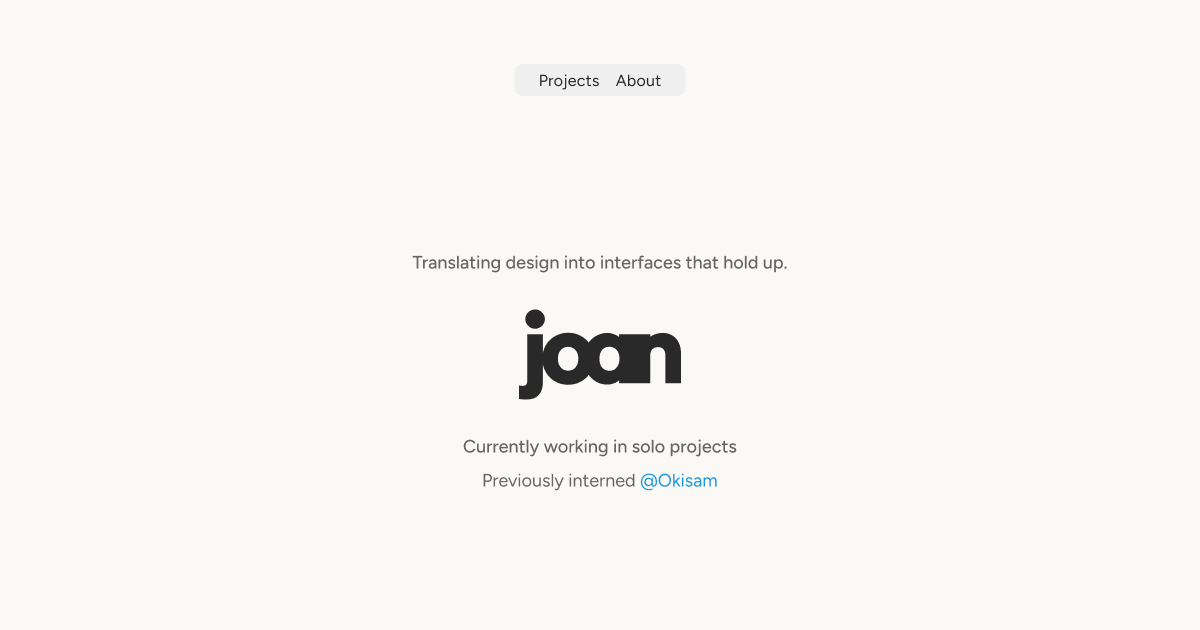
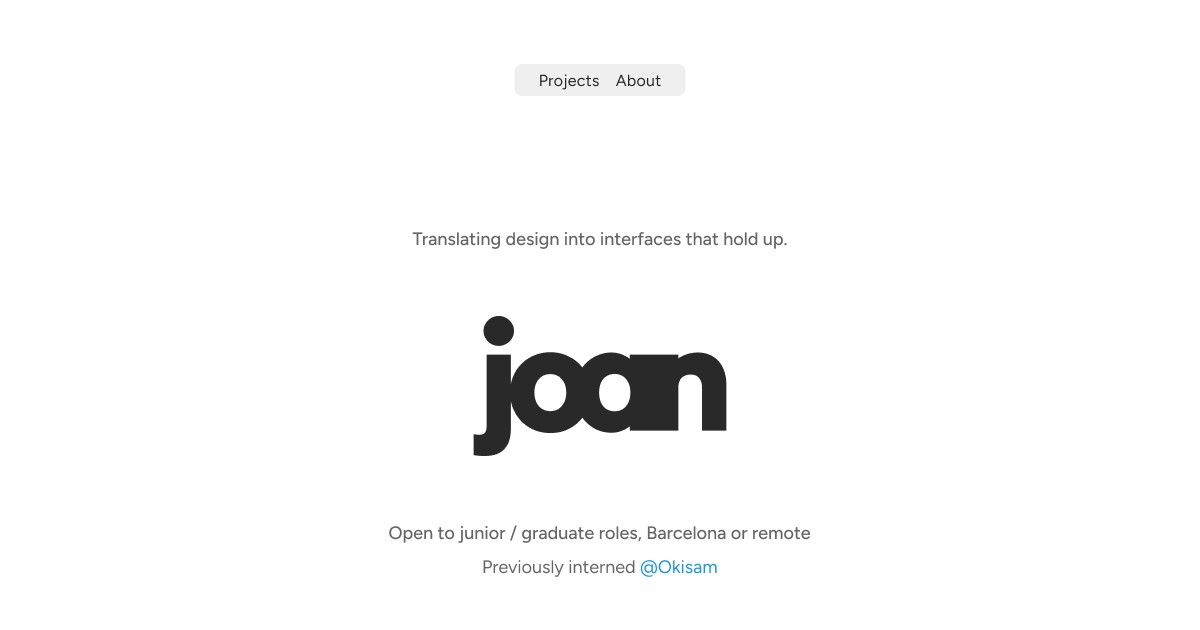
Update the landing share card to the new status line

diff --git a/lib/share-metadata.ts b/lib/share-metadata.ts
@@ -17,7 +17,7 @@ export type ShareImage = { src: string; alt: string }
    the English tagline and status lines. */
 export const siteShareImage: ShareImage = {
   src: '/share.png',
-  alt: 'Joan Mascarell’s landing page: the joan wordmark, the tagline “Translating design into interfaces that hold up.” and links to Projects and About.',
+  alt: 'Joan Mascarell’s landing page: the joan wordmark, the tagline “Translating design into interfaces that hold up.”, the status “Open to junior / graduate roles, Barcelona or remote” and links to Projects and About.',
 }
 
 const OG_LOCALE: Record<Locale, string> = { en: 'en_GB', ca: 'ca_ES', es: 'es_ES' }
